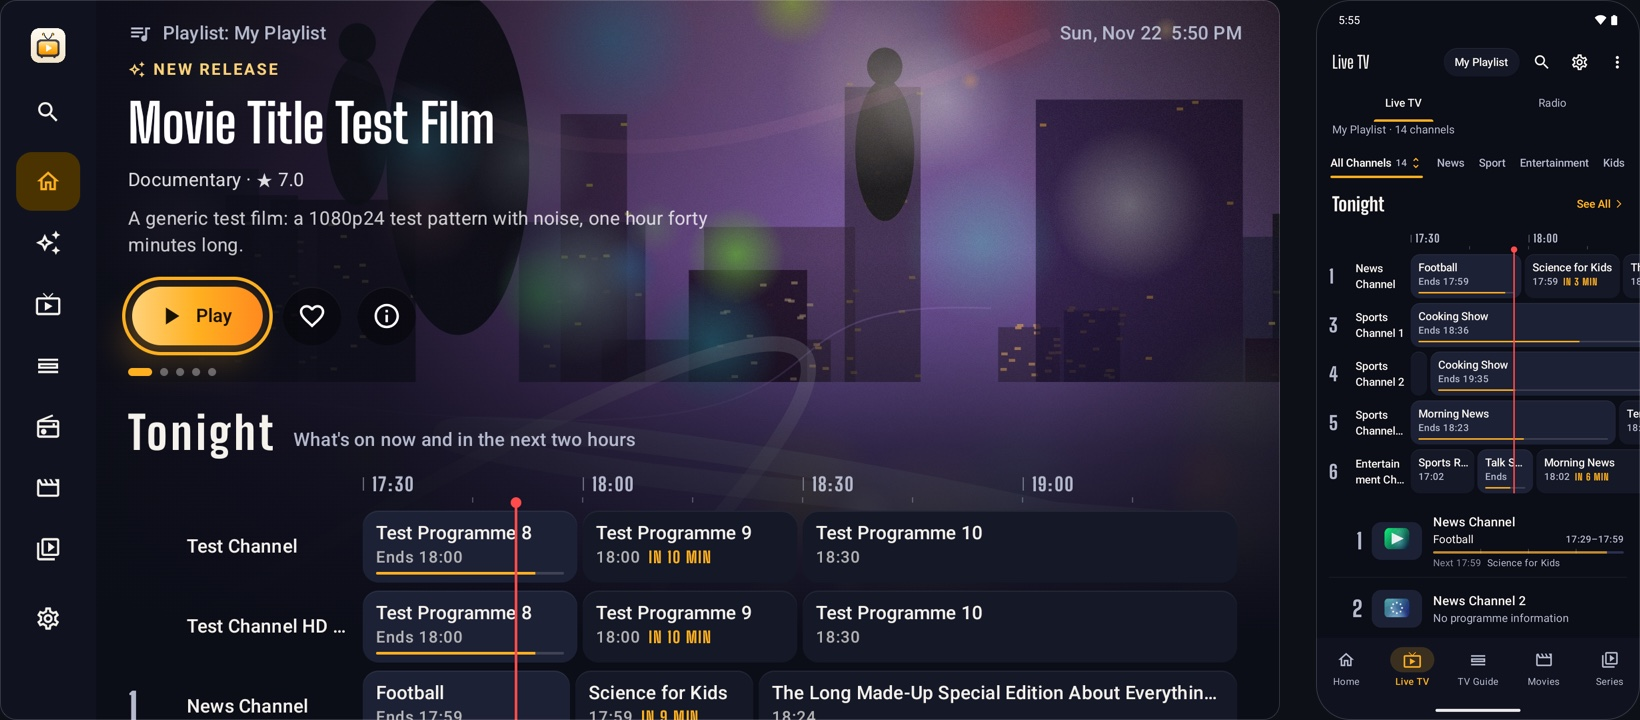
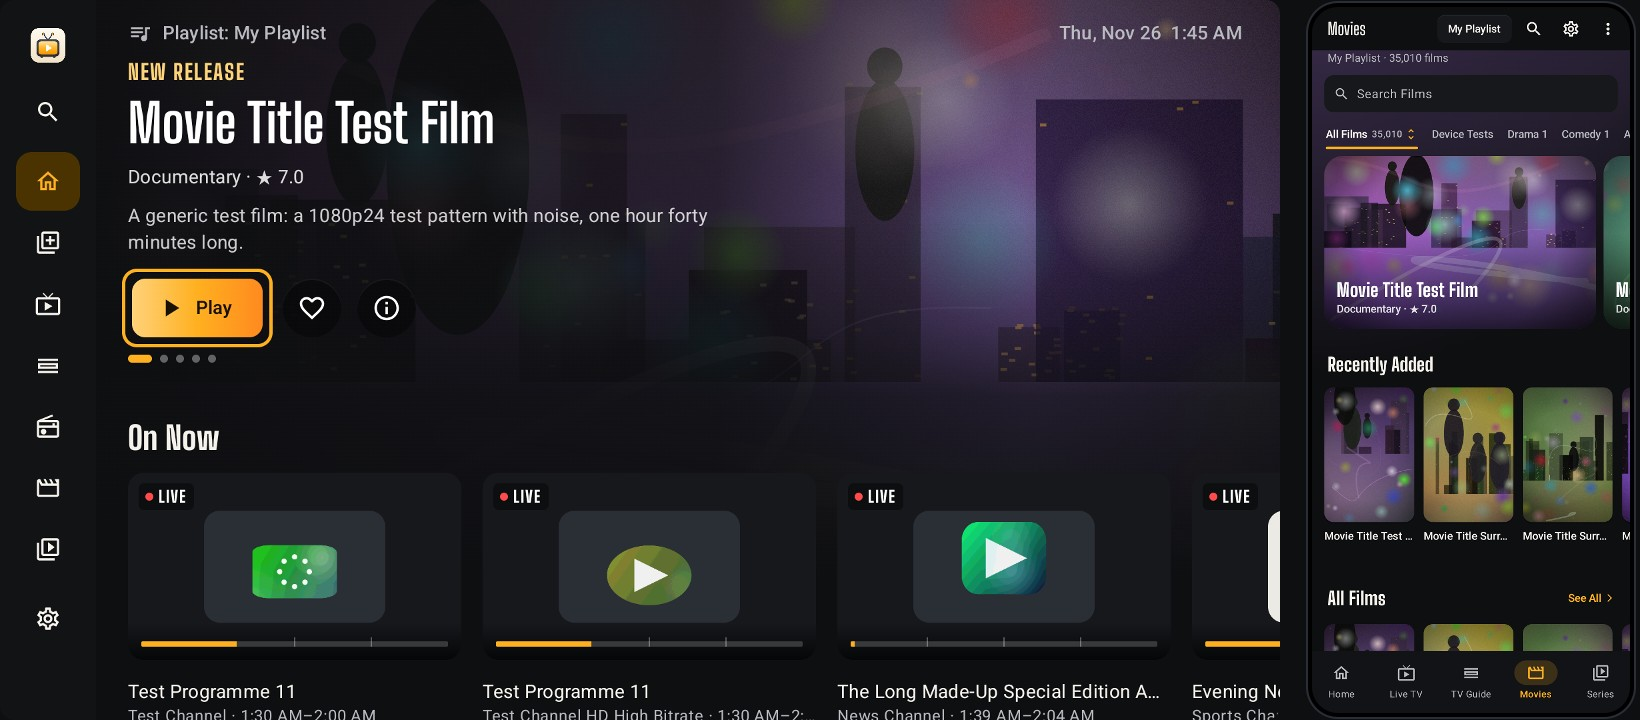
README: new screenshots

diff --git a/README.md b/README.md
@@ -25,7 +25,7 @@
 <p align="center">
   <picture>
     <source media="(prefers-color-scheme: dark)" srcset="assets/screenshot-dark.jpg">
-    <img src="assets/screenshot-light.jpg" alt="ElBee Player's Home on a TV, with Tonight's guide under the banner, beside Live TV on a phone">
+    <img src="assets/screenshot-light.jpg" alt="ElBee Player's Home on a TV, with what's on now under the banner, beside Movies on a phone">
   </picture>
 </p>
 
